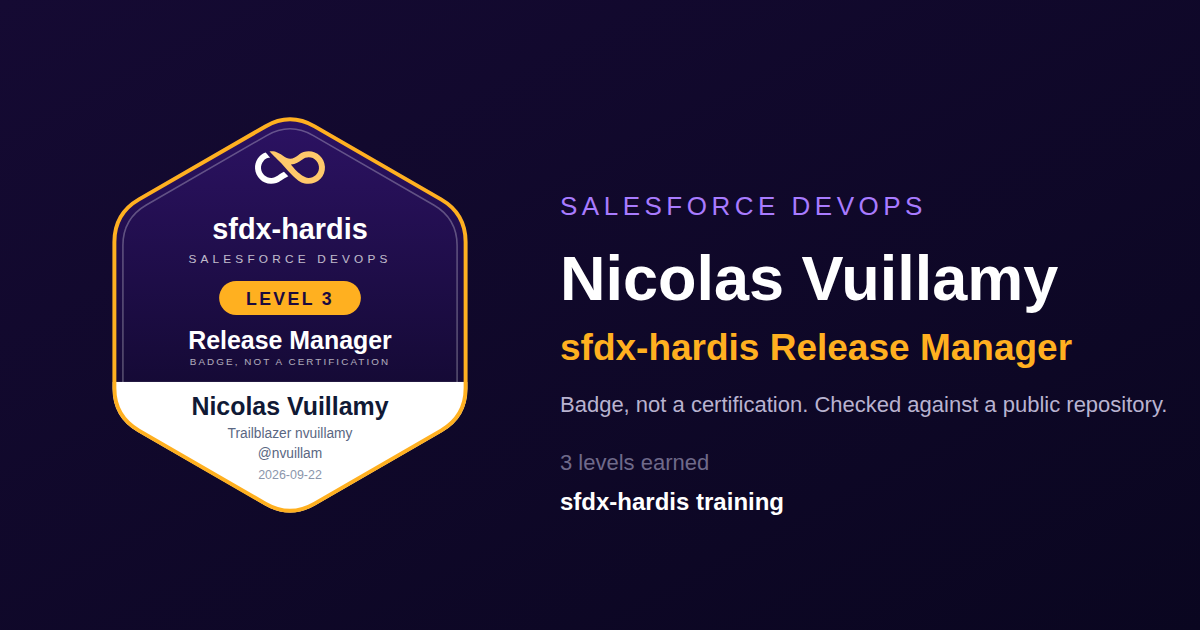
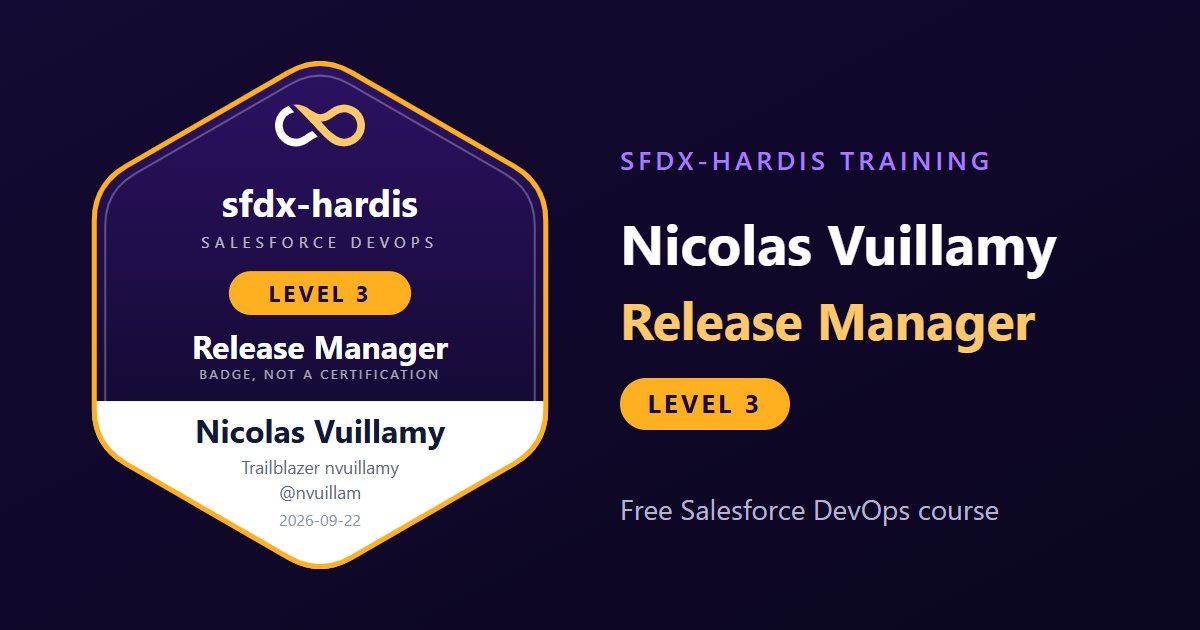
feat(badges): a LinkedIn post already written, and a picture to post the badge full size
- The preview of a badge page says which badge was earned, not only the name
- The share card is redrawn to read as a thumbnail
- The LinkedIn button opens a post with the text written, in the language of the page
- Each holder gets a square picture, shown on their page with a download button and the steps to attach it

diff --git a/site-overrides/main.html b/site-overrides/main.html
@@ -65,7 +65,8 @@
     page was first shared needs a pass through their Post Inspector to show.
   -#}
   {% set social = (page.meta | d({}, true)).social | d("_assets/social/course.png") %}
-  {% set share_title = (page.meta | d({}, true)).title | d(page.title | d(config.site_name), true) %}
+  {#- A badge page is titled with a name; its share says which badge it is -#}
+  {% set share_title = (page.meta | d({}, true)).social_title | d((page.meta | d({}, true)).title | d(page.title | d(config.site_name), true), true) %}
   {% set share_text = (page.meta | d({}, true)).description | d(config.site_description, true) %}
   <meta property="og:type" content="website">
   <meta property="og:site_name" content="{{ config.site_name }}">

diff --git a/site-theme/stylesheets/extra.css b/site-theme/stylesheets/extra.css
@@ -484,3 +484,12 @@ body.sfh-lightbox-open {
   margin-right: 0.5rem;
   vertical-align: middle;
 }
+
+/*
+ * The post a badge page offers to copy. It is prose in a code block, for the
+ * copy button, so it wraps like prose instead of scrolling sideways.
+ */
+.badge-post pre code {
+  white-space: pre-wrap;
+  word-break: break-word;
+}

diff --git a/CHANGELOG.md b/CHANGELOG.md
@@ -12,6 +12,7 @@ a day, newest first, and a change goes under the date of the day it is made.
 - New **Update my course** in the Training menu of every level: brings the course changes made since you forked, through a Pull Request into `integration`, without losing your work.
 - Every training command, and **Where am I?**, tells you when your fork is missing course changes it runs (lab pages, translations, the site and badges are ignored).
 - Reset this level keeps the certificate keys of Lab 3.1, so a Level 3 pipeline still logs in to its orgs after a reset.
+- Badge pages: the LinkedIn button opens a post already written, the preview says which badge was earned, and a square picture can be downloaded to post the badge full size.
 
 ## 2026-09-23
 
